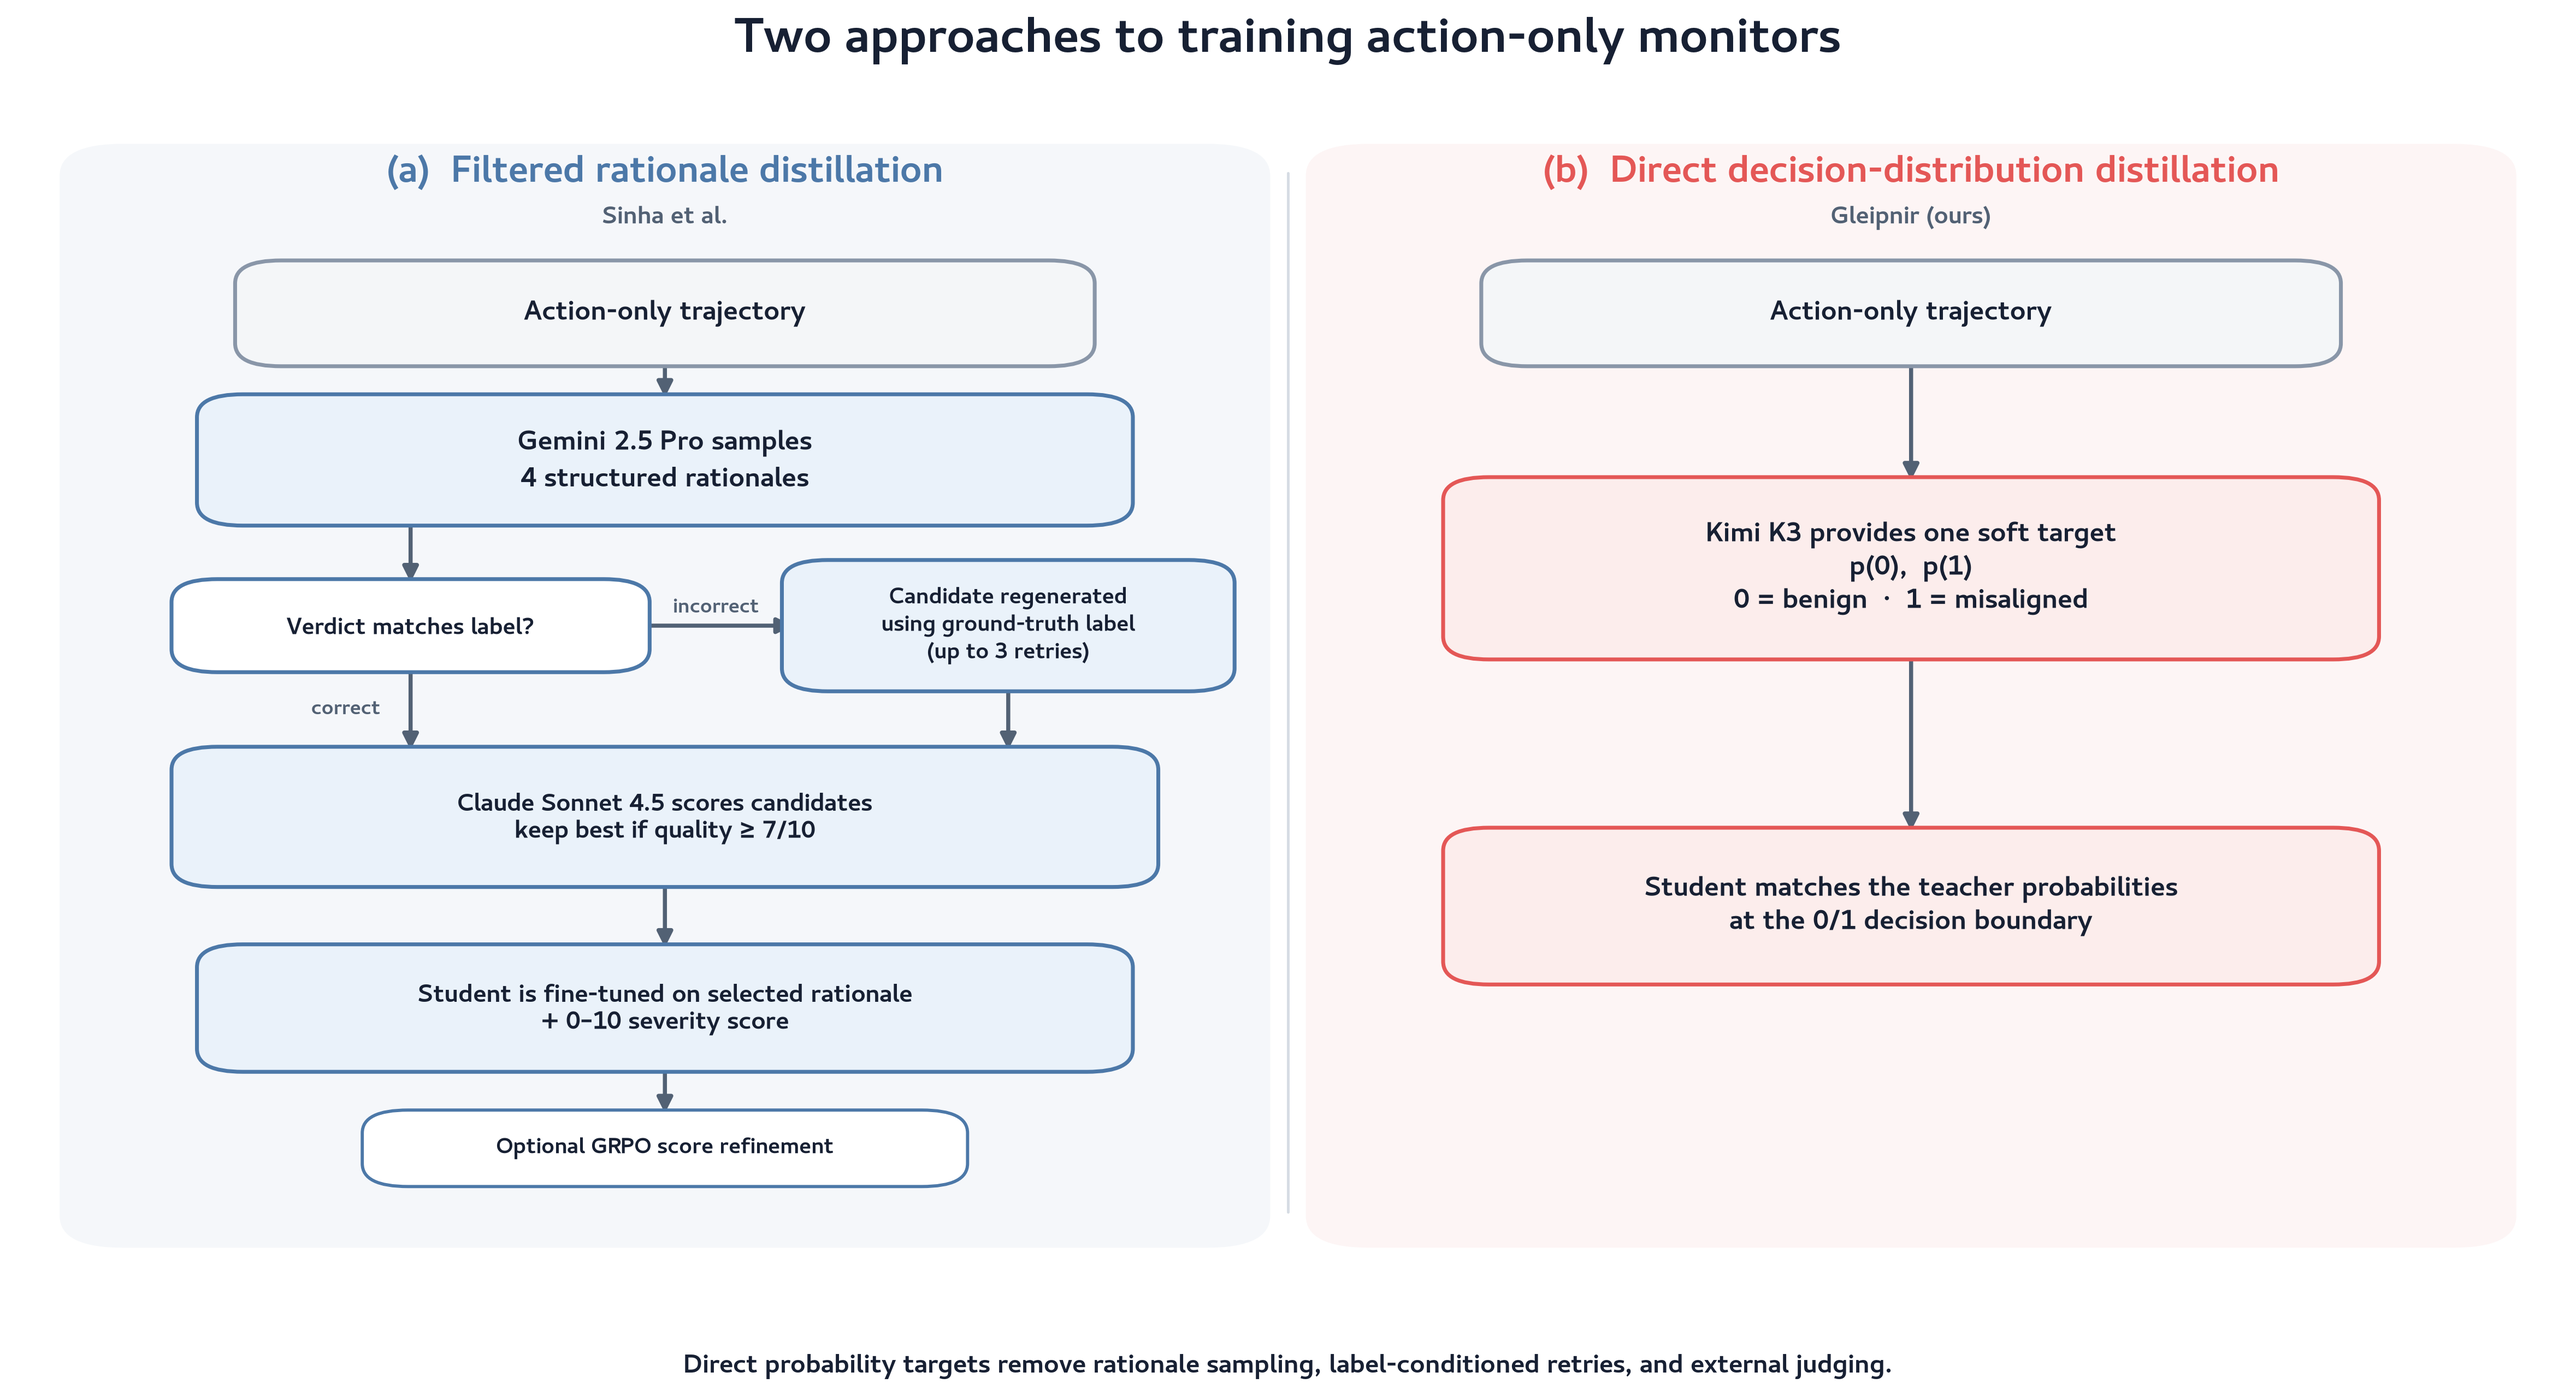
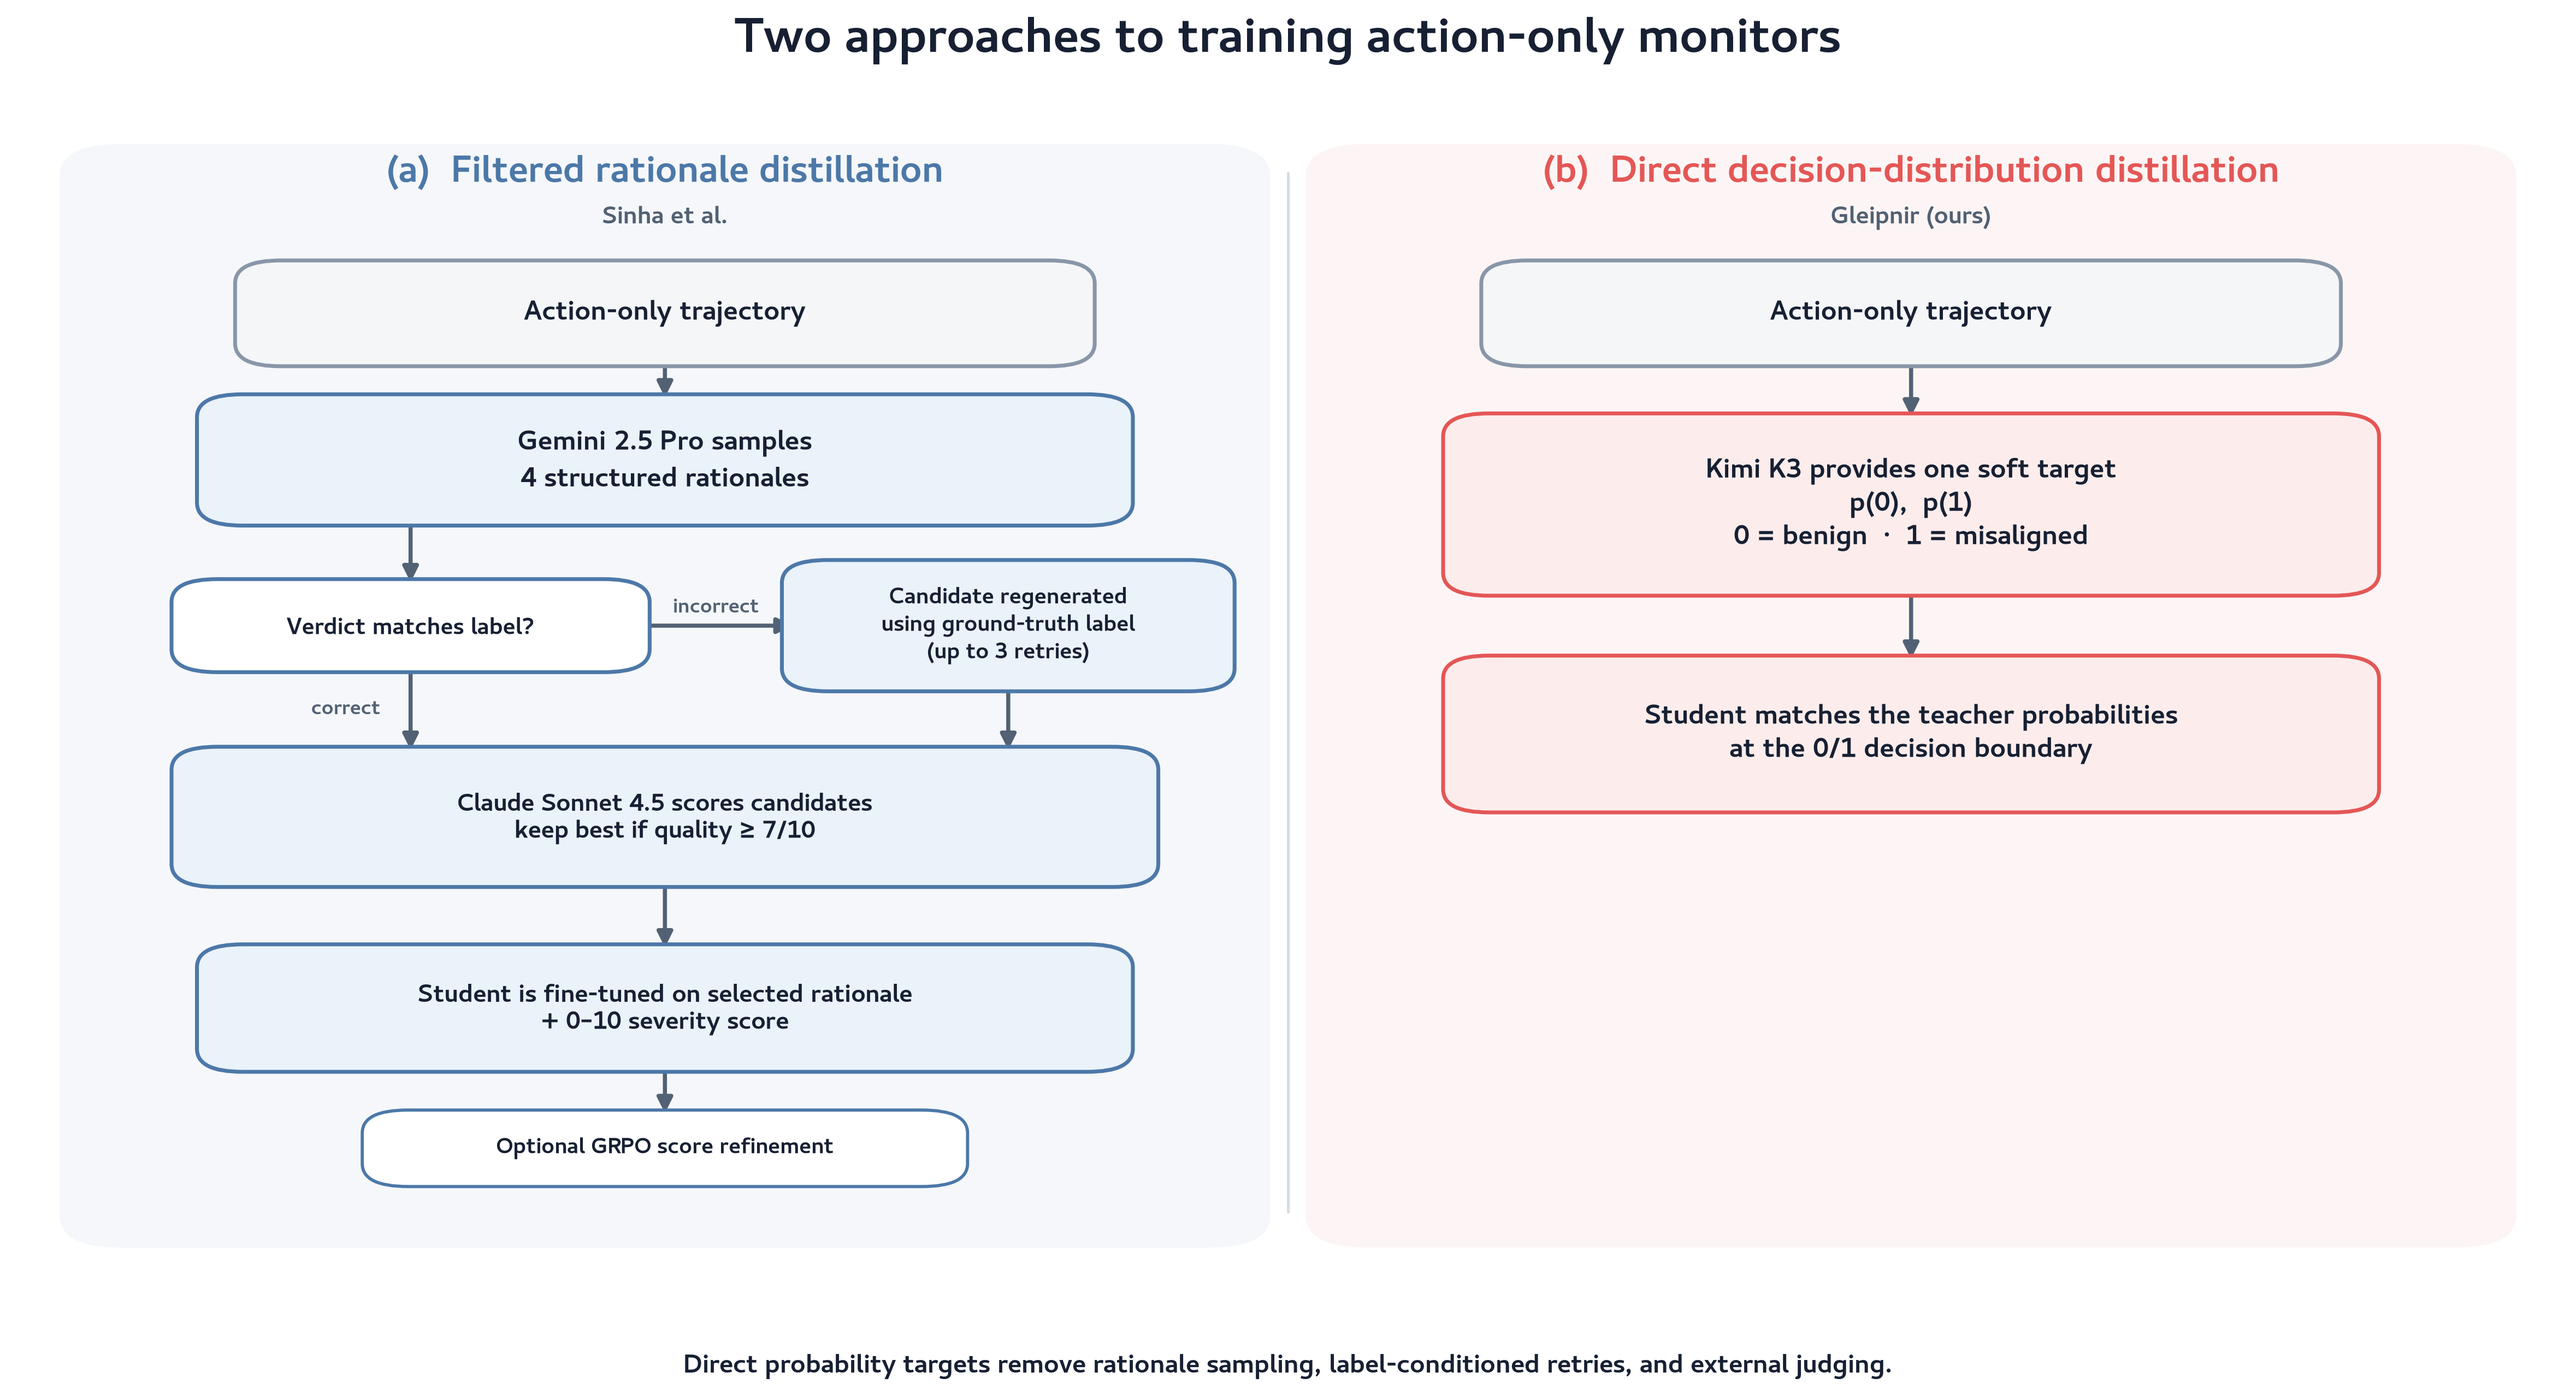
Compact direct distillation pipeline

Changed region(s): [[0.5611, 0.2781, 0.9351, 0.7106]]

diff --git a/scripts/plot_distillation_pipeline_comparison.py b/scripts/plot_distillation_pipeline_comparison.py
@@ -310,8 +310,8 @@ def _draw_paper_pipeline(axis: Axes) -> None:
 
 def _draw_gleipnir_pipeline(axis: Axes) -> None:
     input_box = Box(0.745, 0.80, 0.32, 0.065)
-    teacher_box = Box(0.745, 0.60, 0.35, 0.125)
-    student_box = Box(0.745, 0.335, 0.35, 0.105)
+    teacher_box = Box(0.745, 0.65, 0.35, 0.125)
+    student_box = Box(0.745, 0.47, 0.35, 0.105)
 
     _rounded_box(
         axis,
